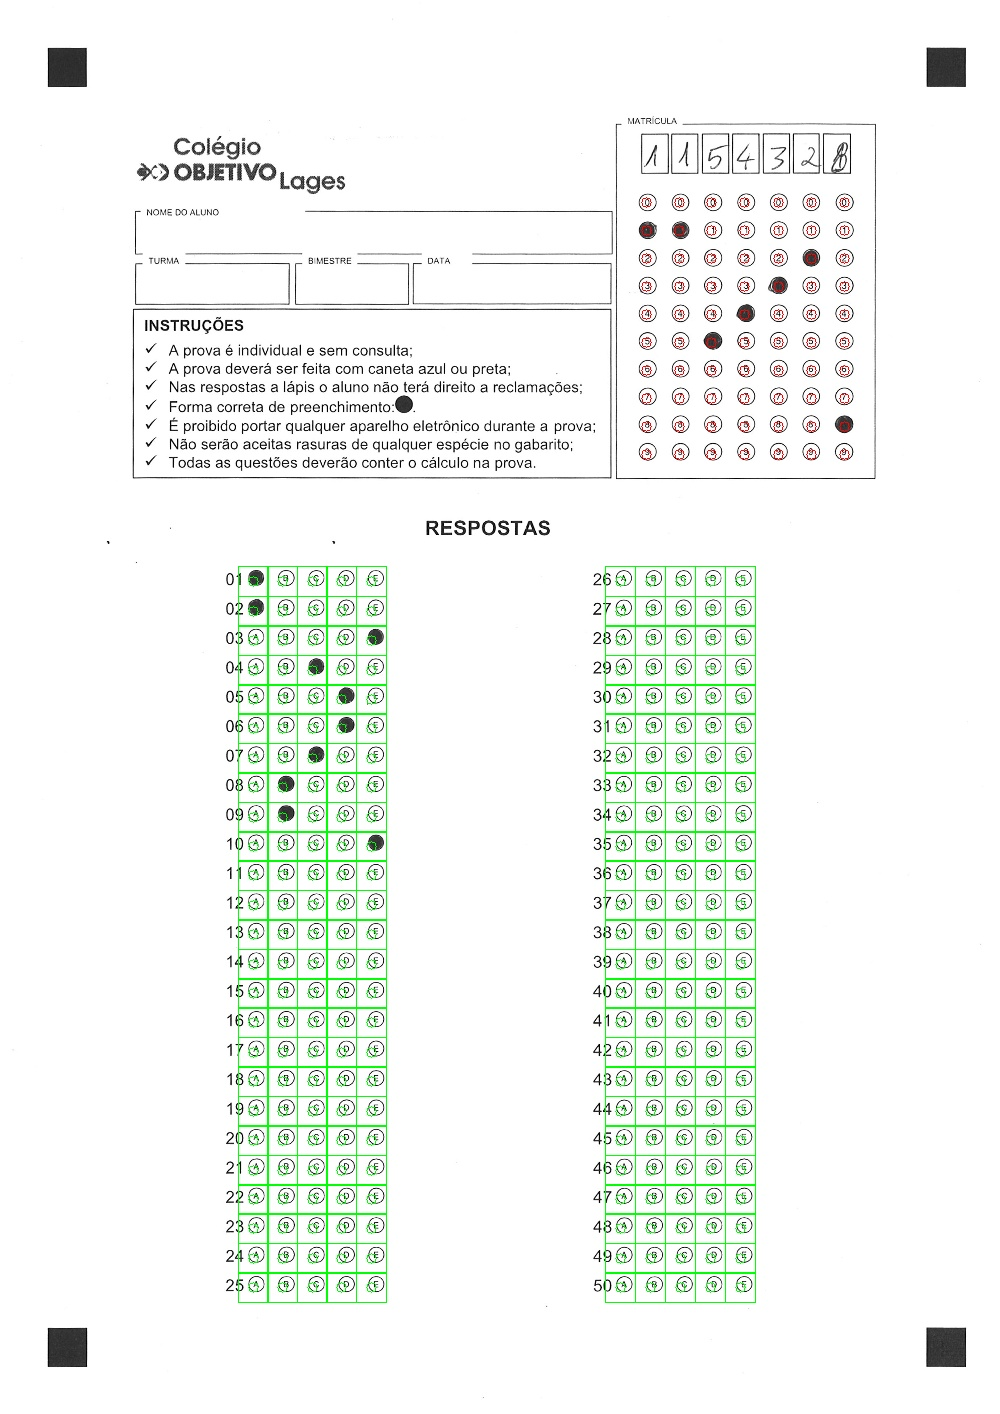
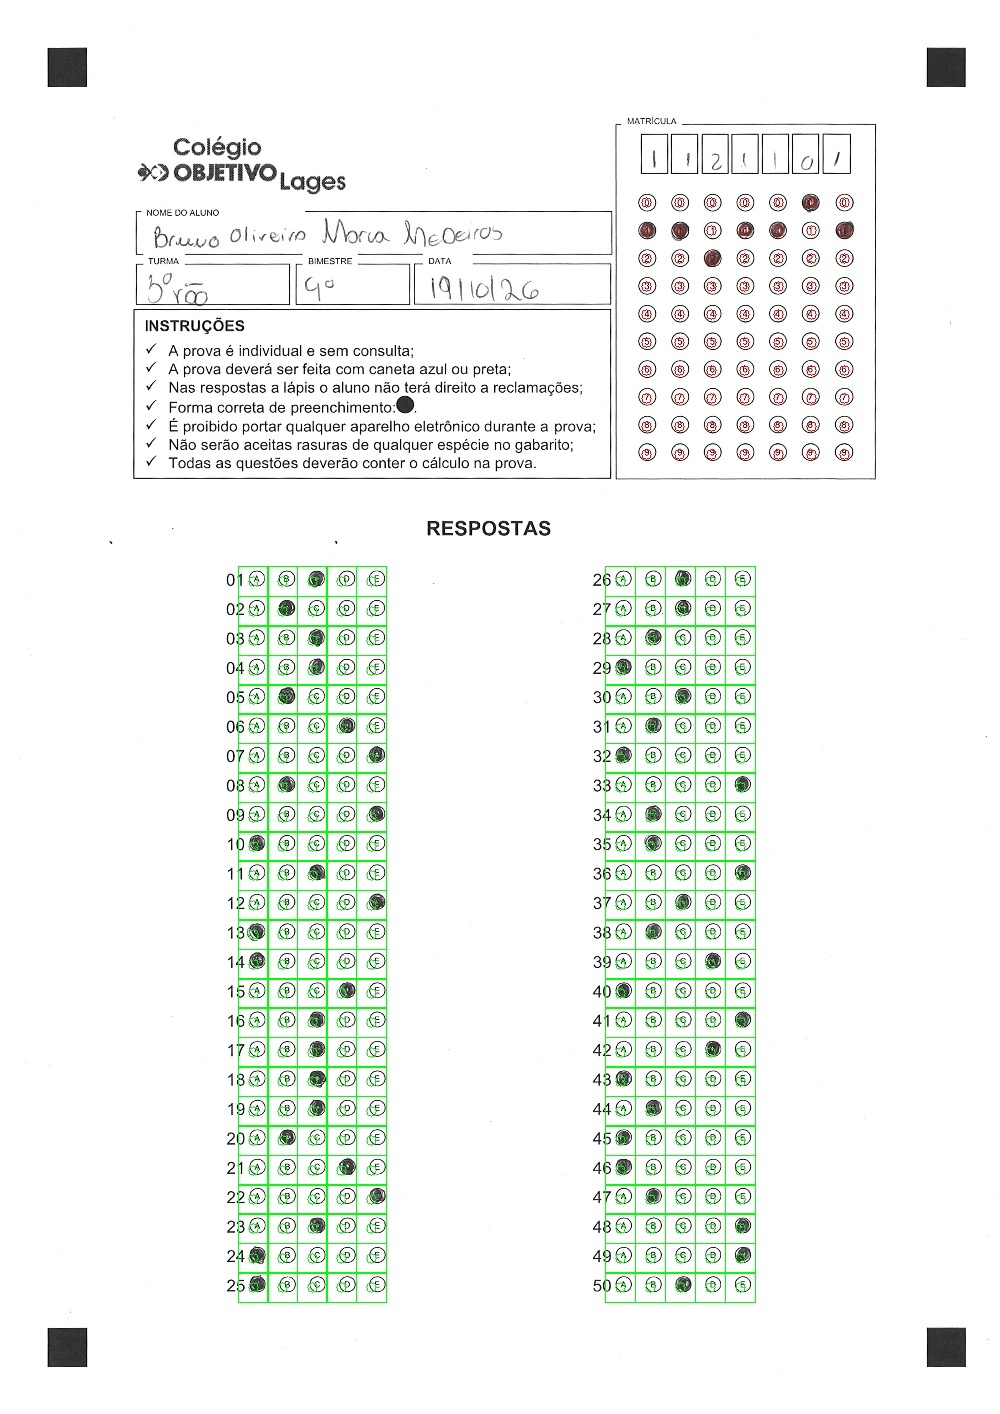
Adicionado botão e função para exportar resultado da correção

diff --git a/CorrigindoSimuladoWebApp/Modulos/Correcoes/Apresentacao/CorrecaoController.cs b/CorrigindoSimuladoWebApp/Modulos/Correcoes/Apresentacao/CorrecaoController.cs
@@ -390,6 +390,43 @@ public sealed class CorrecaoController : Controller
         return View("/Modulos/Correcoes/Apresentacao/Views/Cadastrar.cshtml", viewModel);
     }
 
+    [HttpGet]
+    public ActionResult ExportarExcel(Guid id)
+    {
+        Correcao? correcao = repositorioCorrecao.SelecionarPorId(id);
+        if (correcao == null)
+            return NotFound();
+
+        // Cria o conteúdo estruturado em formato CSV/Tabular compatível com Excel (.csv abre direto no Excel)
+        var relatorio = new System.Text.StringBuilder();
+        relatorio.AppendLine($"Aluno:;{correcao.Aluno.Nome}");
+        relatorio.AppendLine($"Prova:;{correcao.Prova.Nome}");
+        relatorio.AppendLine($"Acertos:;{correcao.NumeroAcertos} de {correcao.Prova.QuantidadeQuestoes}");
+        relatorio.AppendLine();
+        relatorio.AppendLine("Questão;Gabarito Prova;Resposta Aluno;Situação");
+        relatorio.AppendLine("Questão;Gabarito Correto;Resposta Aluno;Situação;Pontuação");
+
+        string gabaritoAluno = correcao.GabaritoAluno.Replace(" ", "").ToUpper();
+        string gabaritoProva = correcao.Prova.GabaritoCorreto.Replace(" ", "").ToUpper();
+
+        for (int i = 0; i < correcao.Prova.QuantidadeQuestoes; i++)
+        {
+            char respAluno = gabaritoAluno[i];
+            char respProva = gabaritoProva[i];
+            string status = respAluno == respProva ? "Correta" : "Incorreta";
+
+            int pontuacao = respAluno == respProva ? 1 : 0;
+
+            relatorio.AppendLine($"Questão {i + 1};{respProva};{respAluno};{status};{pontuacao}");
+        }
+
+        byte[] bytes = System.Text.Encoding.UTF8.GetBytes(relatorio.ToString());
+        string nomeArquivo = $"Resultado_{correcao.Aluno.Nome.Replace(" ", "_")}.csv";
+
+        // Retorna o arquivo para download como planilha
+        return File(bytes, "text/csv", nomeArquivo);
+    }
+
     private List<SelecionarItemViewModel>? ObterAlunosDisponiveis()
     {
         List<SelecionarItemViewModel> viewModels = new();
